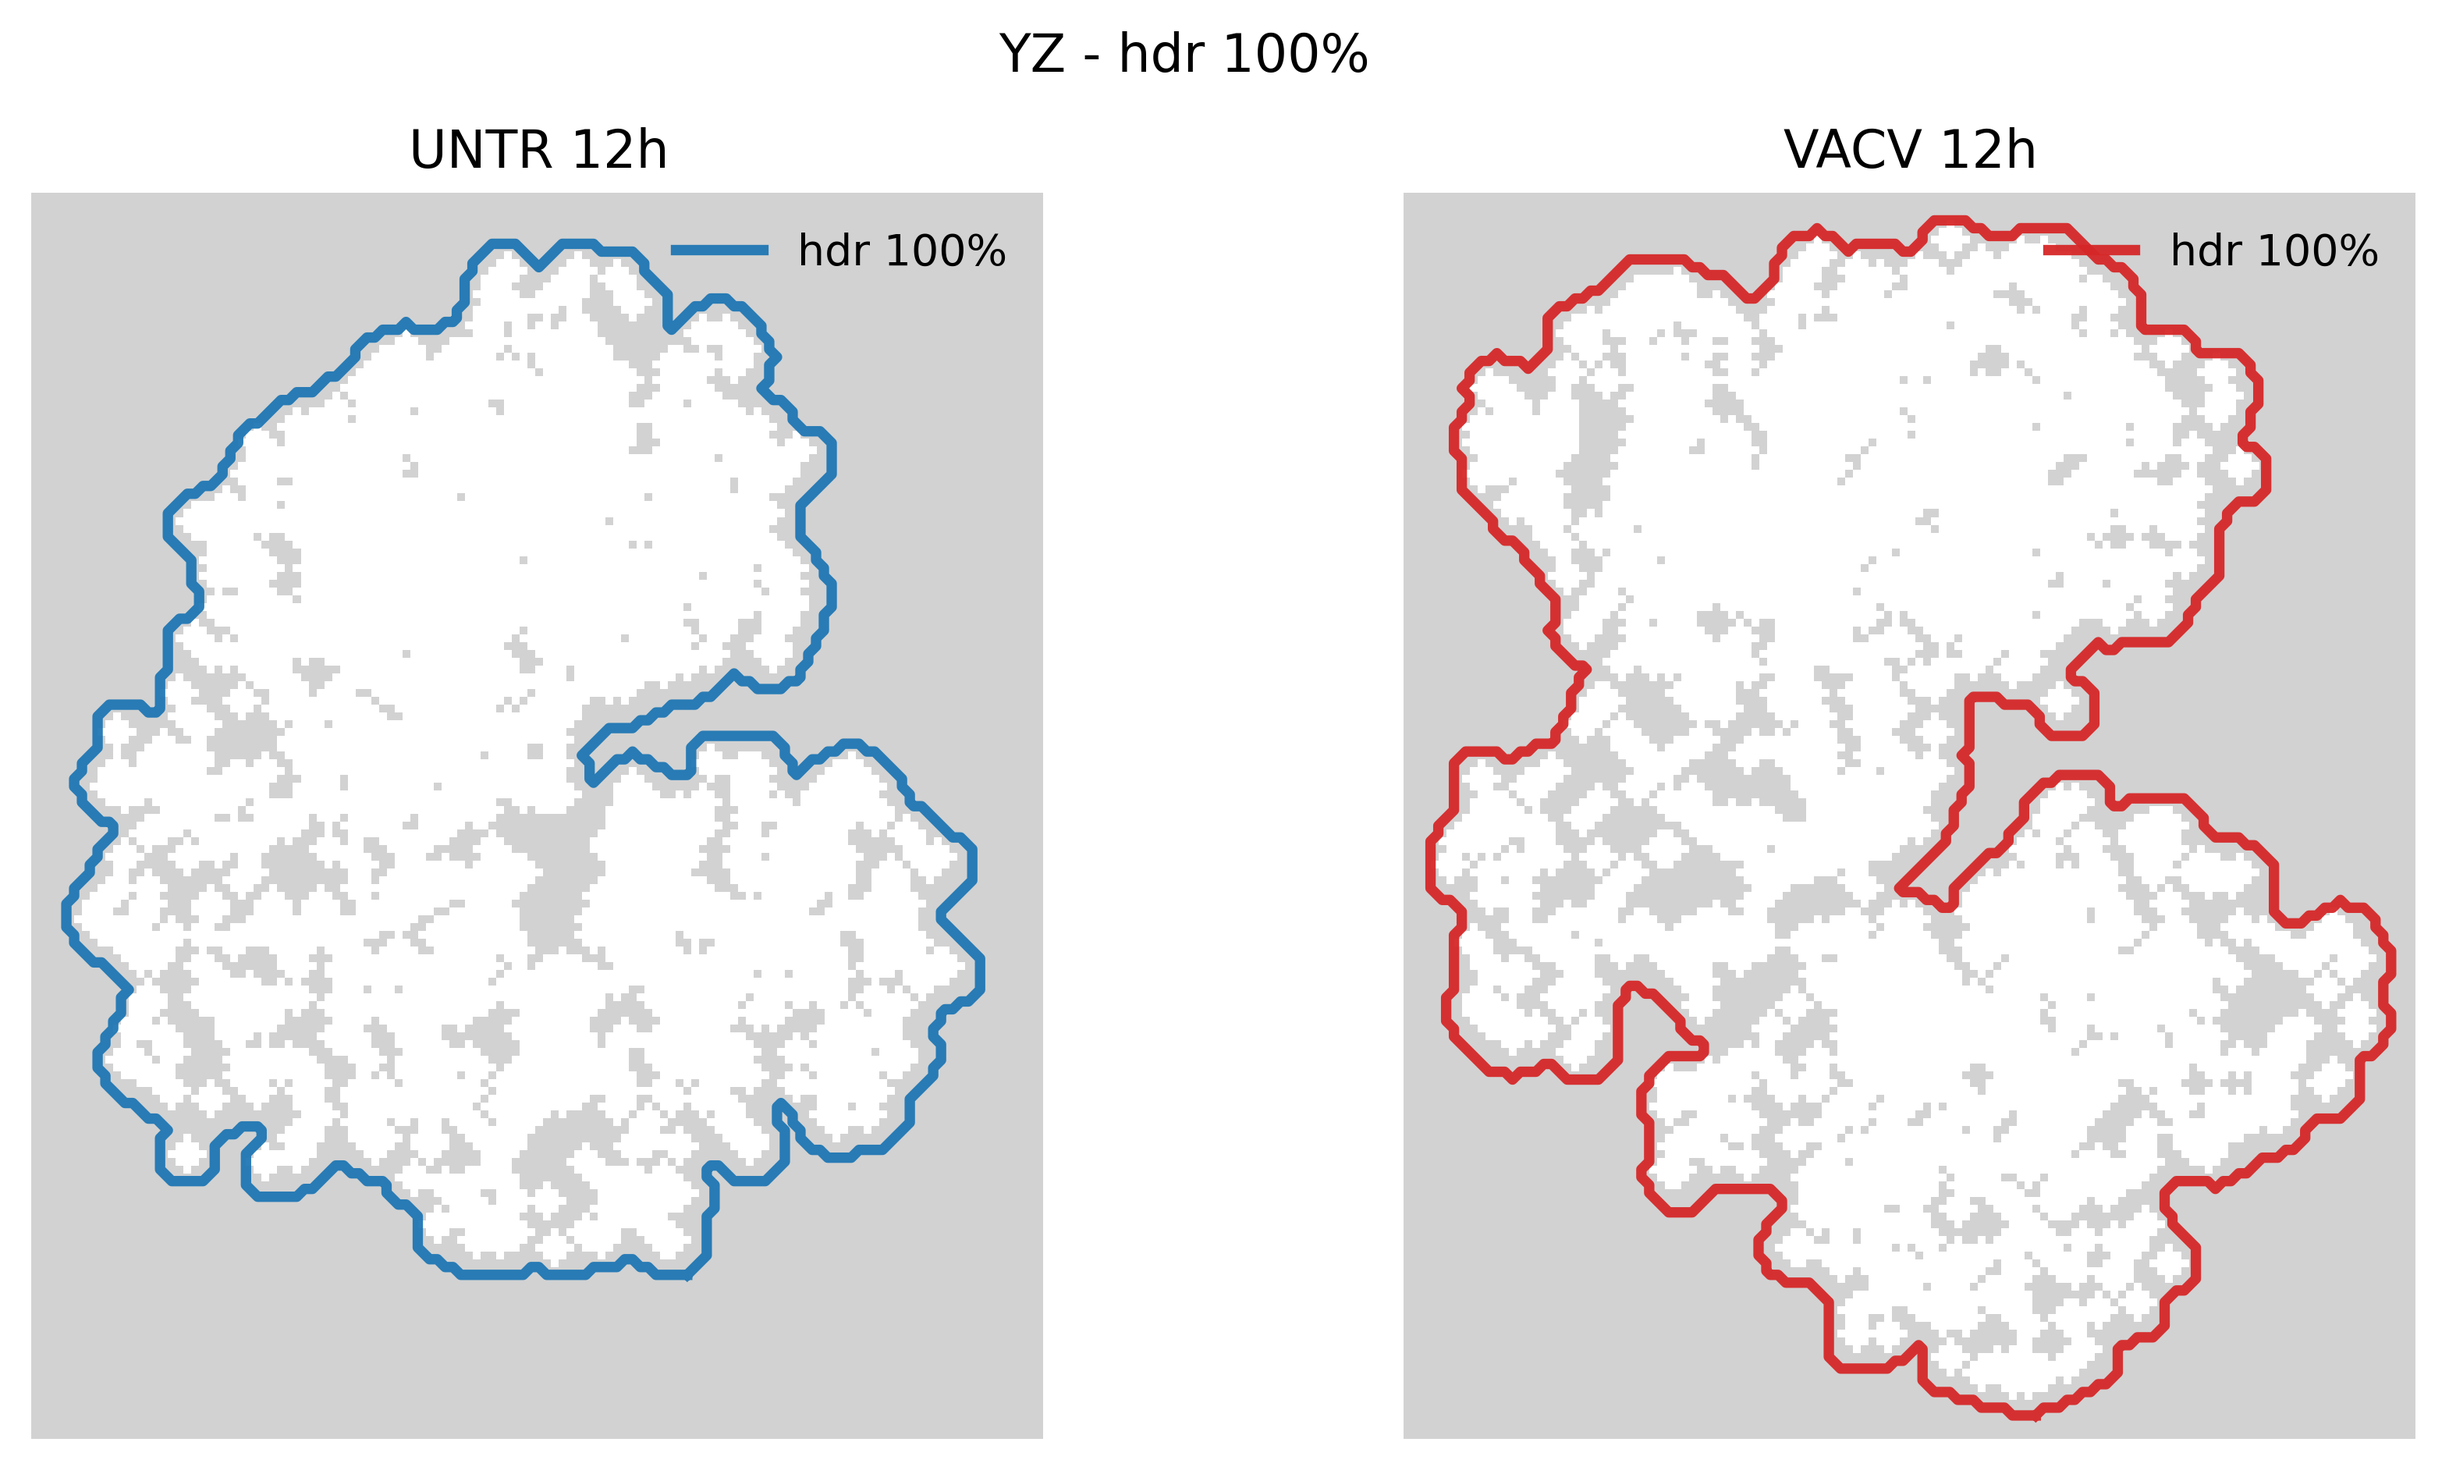
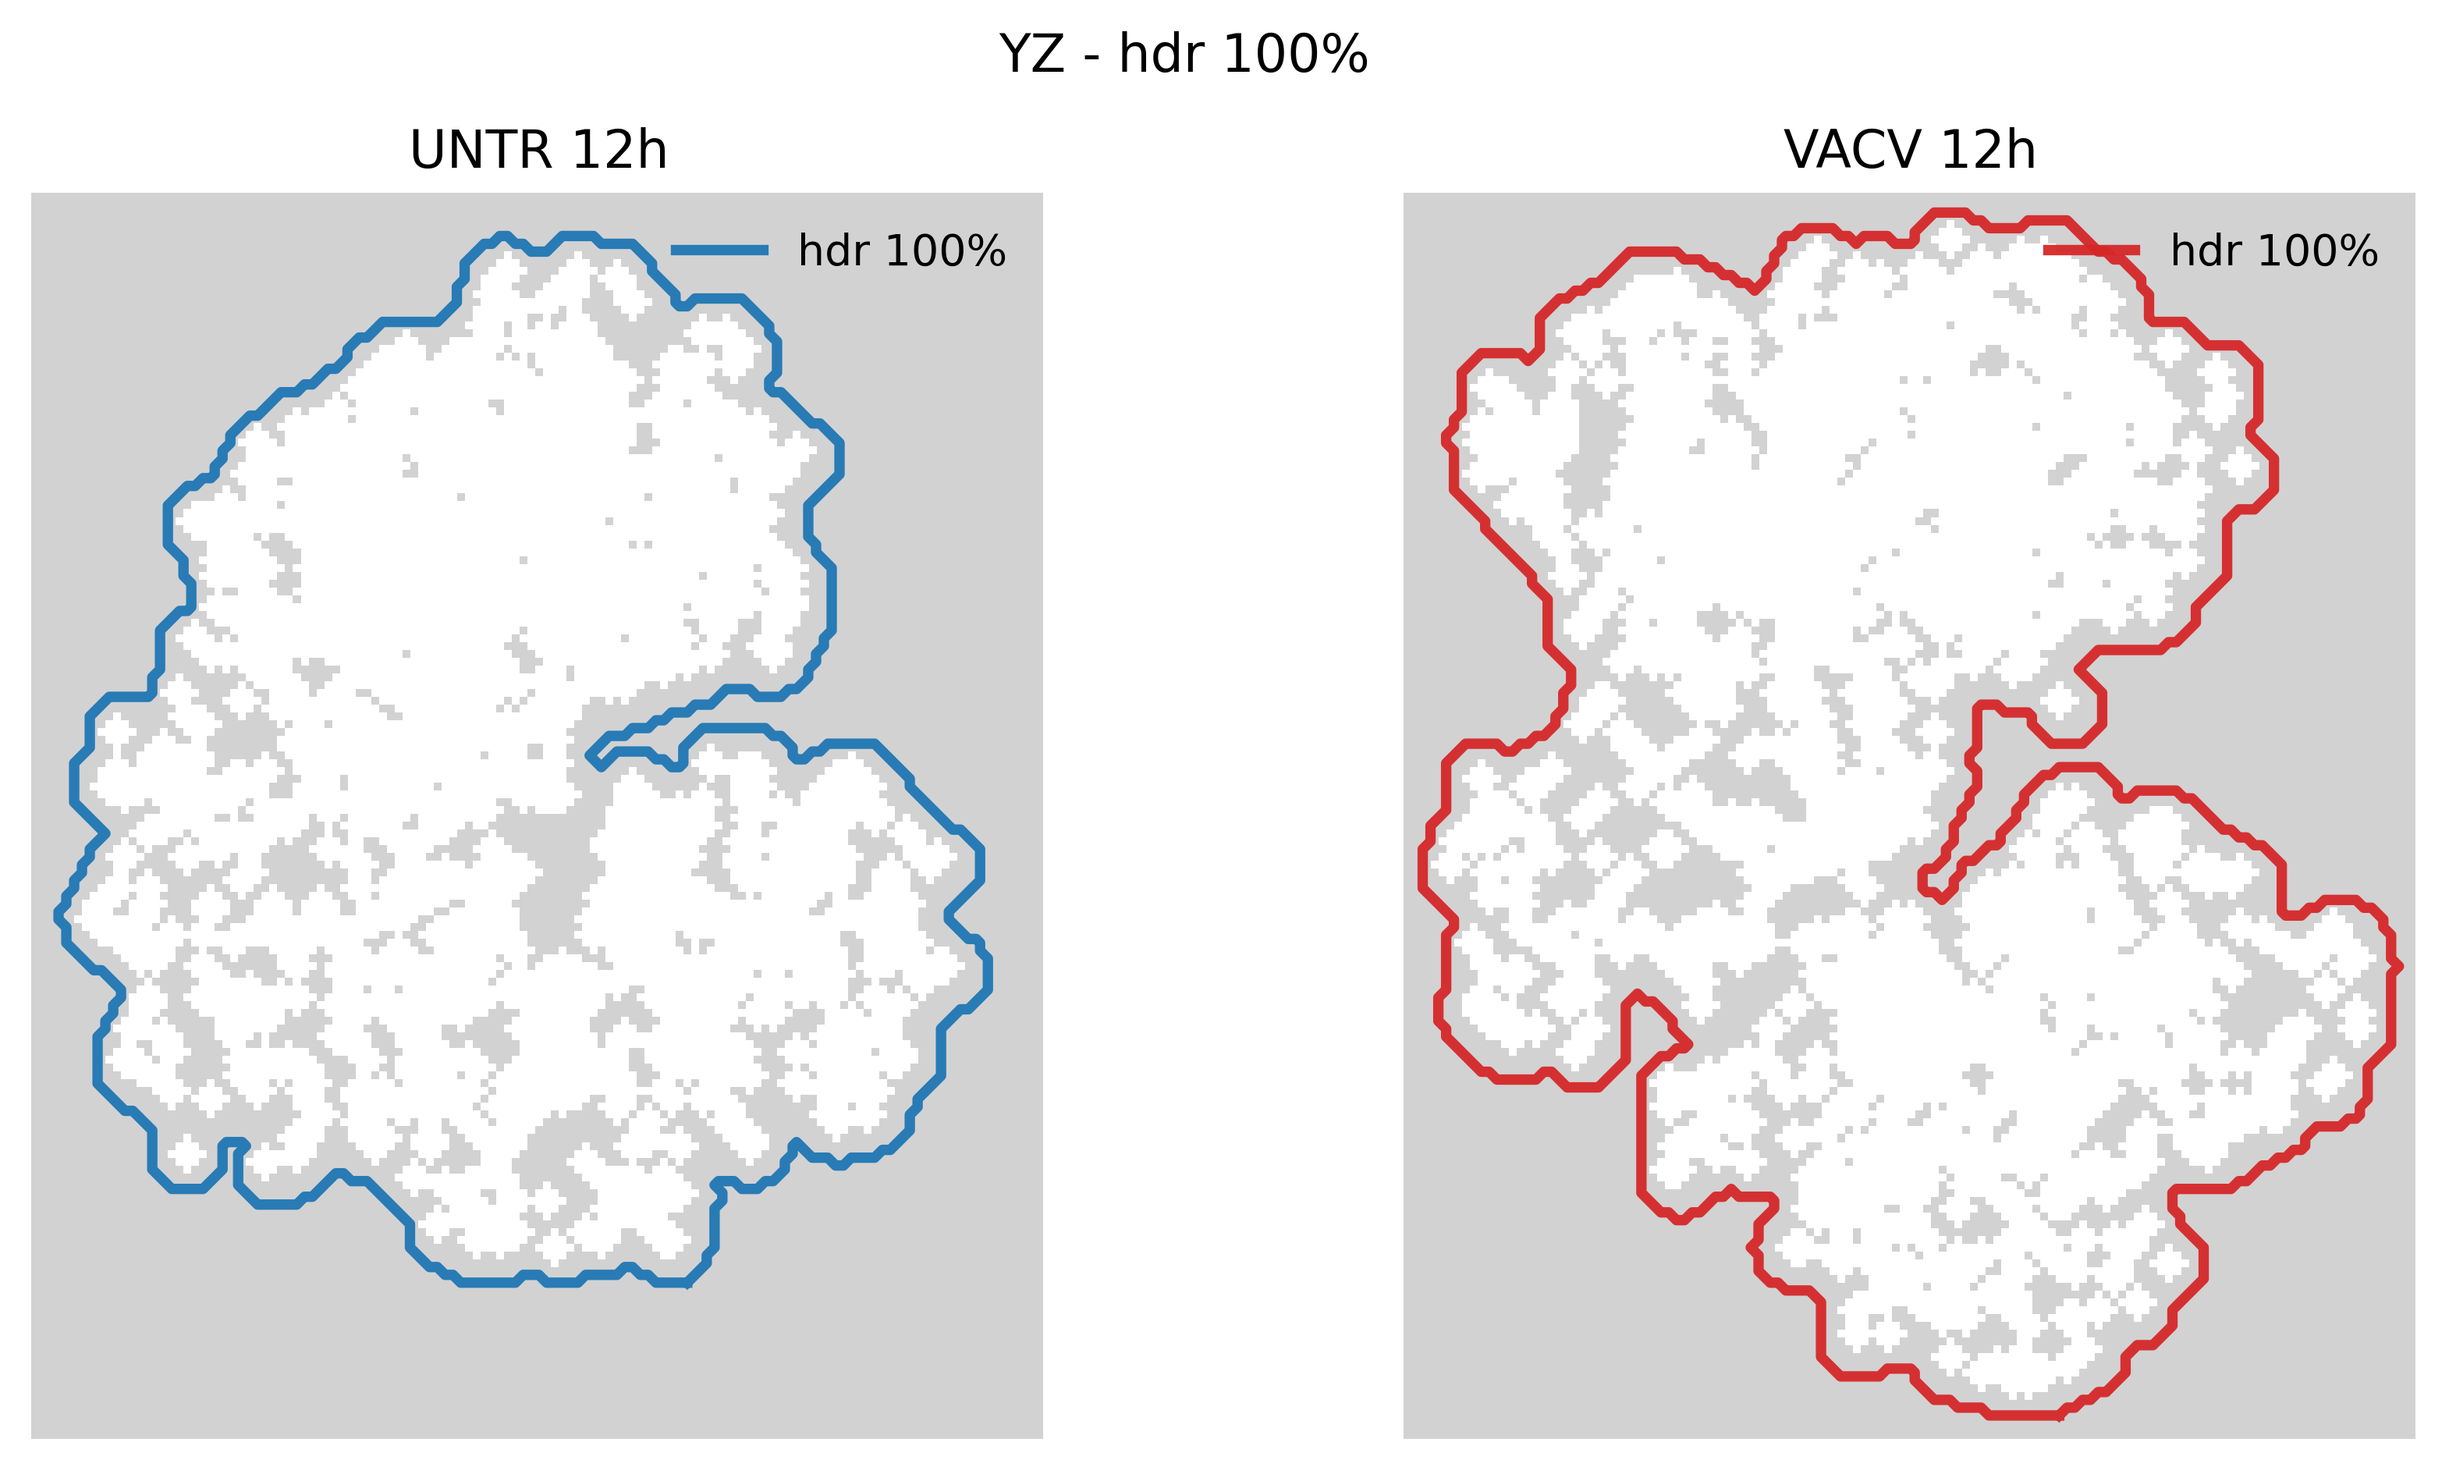
pipeline reprocubulity

diff --git a/evaluation/supplementary_noisy_instances.py b/evaluation/supplementary_noisy_instances.py
@@ -53,8 +53,8 @@ SHAPE_BLOB_MIN_AREA_FRAC = 0.08
 # Publication-facing smoother settings.
 CFG_HDR = mpase.CfgHDR(
     n_boot=256,
-    sigma_px=1.6,
-    density_floor_frac=0.003,
+    sigma_px=1.8,
+    density_floor_frac=0.002,
     mass_levels=(1.00, 0.95, 0.60),
 )
 
